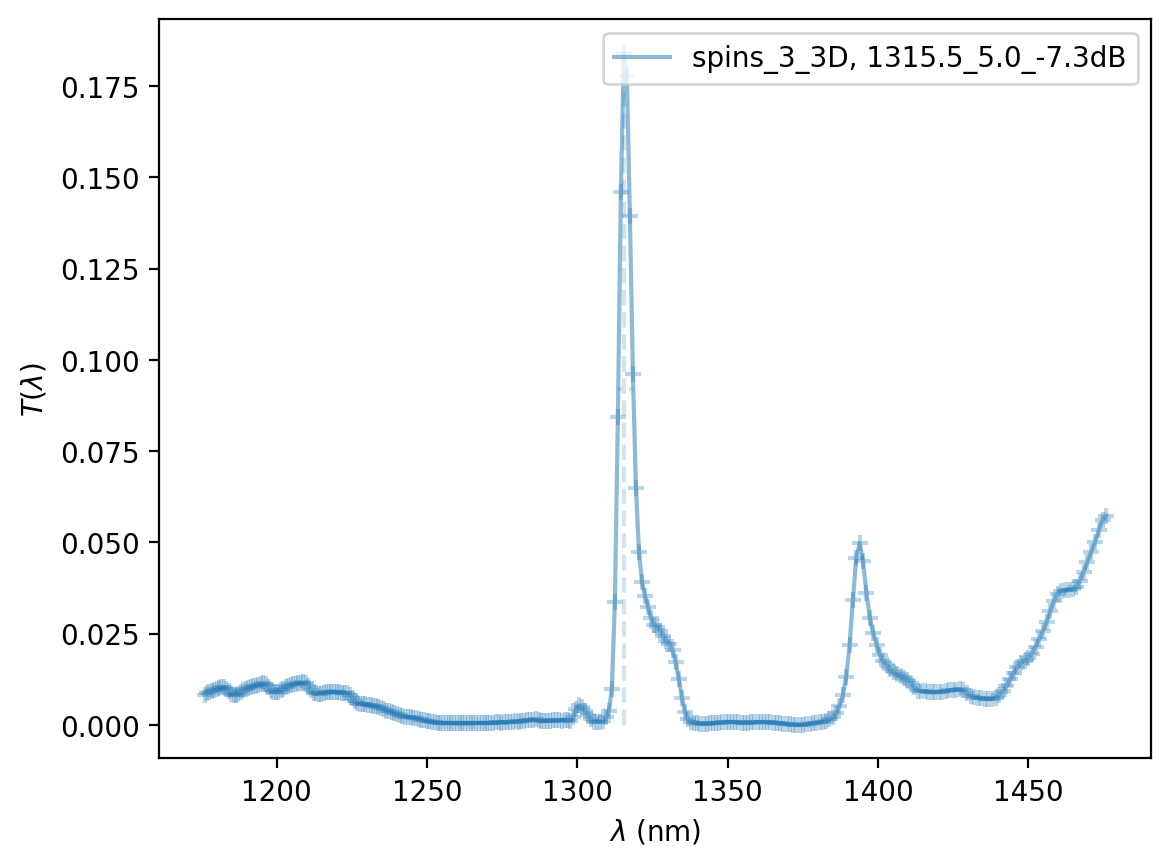
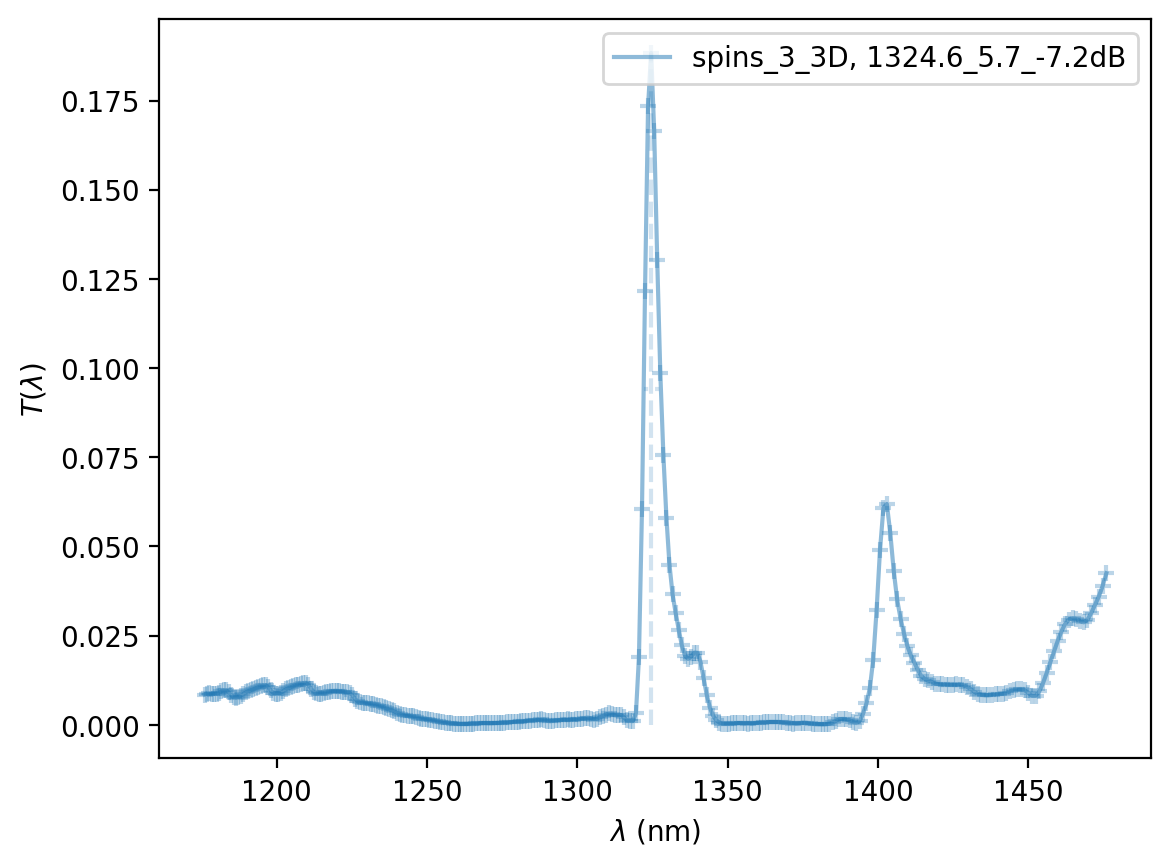
update

diff --git a/230907_spins/3_grating_straight_w1326_released_1/test.py b/230907_spins/3_grating_straight_w1326_released_1/test.py
@@ -5,7 +5,9 @@ sys.path.append("../..")
 from lib.gaussian.gaussian_fit_1d import arb_fit_1d
 from lib.process_data.load_lumerical_data import load_lumerical_1d
 
-l, T = load_lumerical_1d("./3_grating_straight_w1326_released_1_arc_transmission.txt")
+l, T = load_lumerical_1d(
+    "./3_grating_straight_w1326_released_1_expand_arc_transmission.txt"
+)
 import matplotlib.pyplot as plt
 
 fig, ax = plt.subplots()
